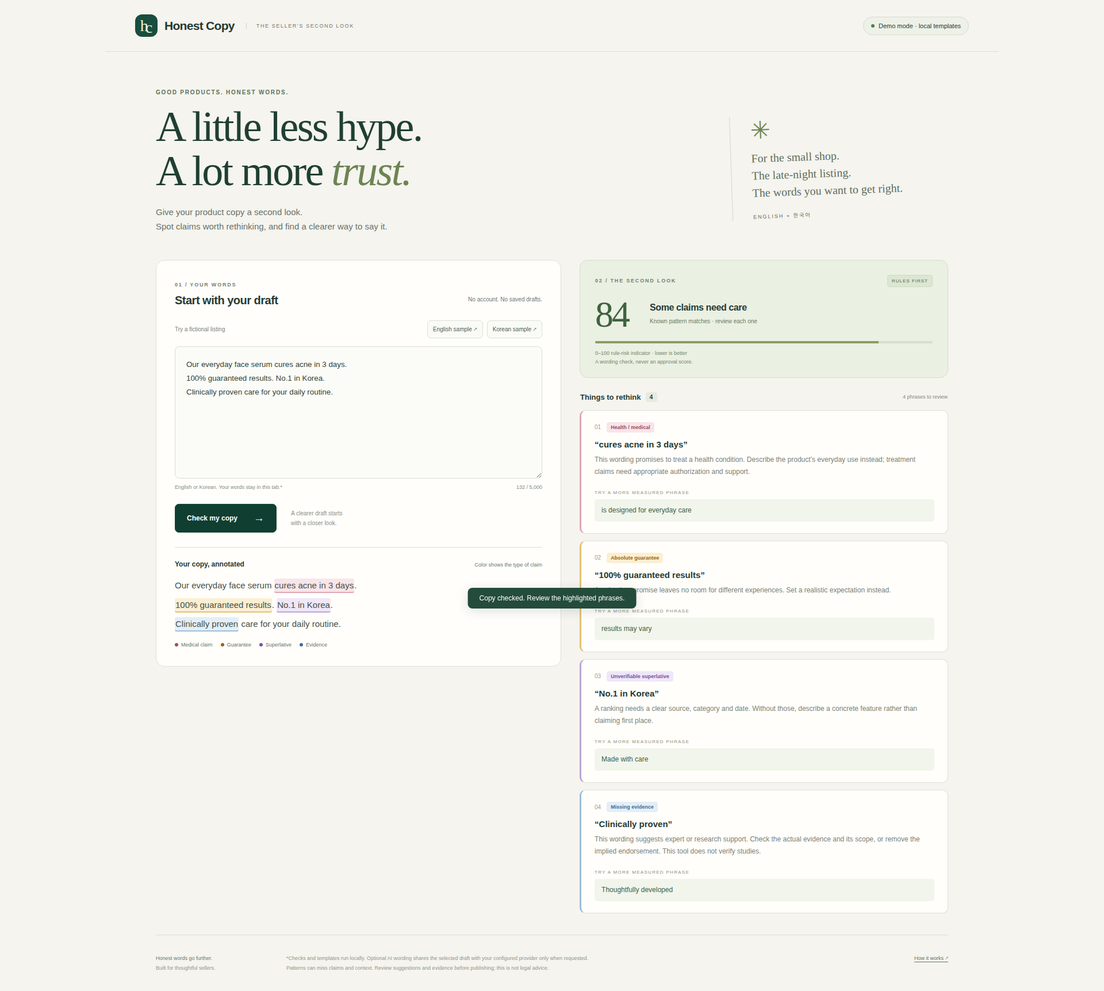
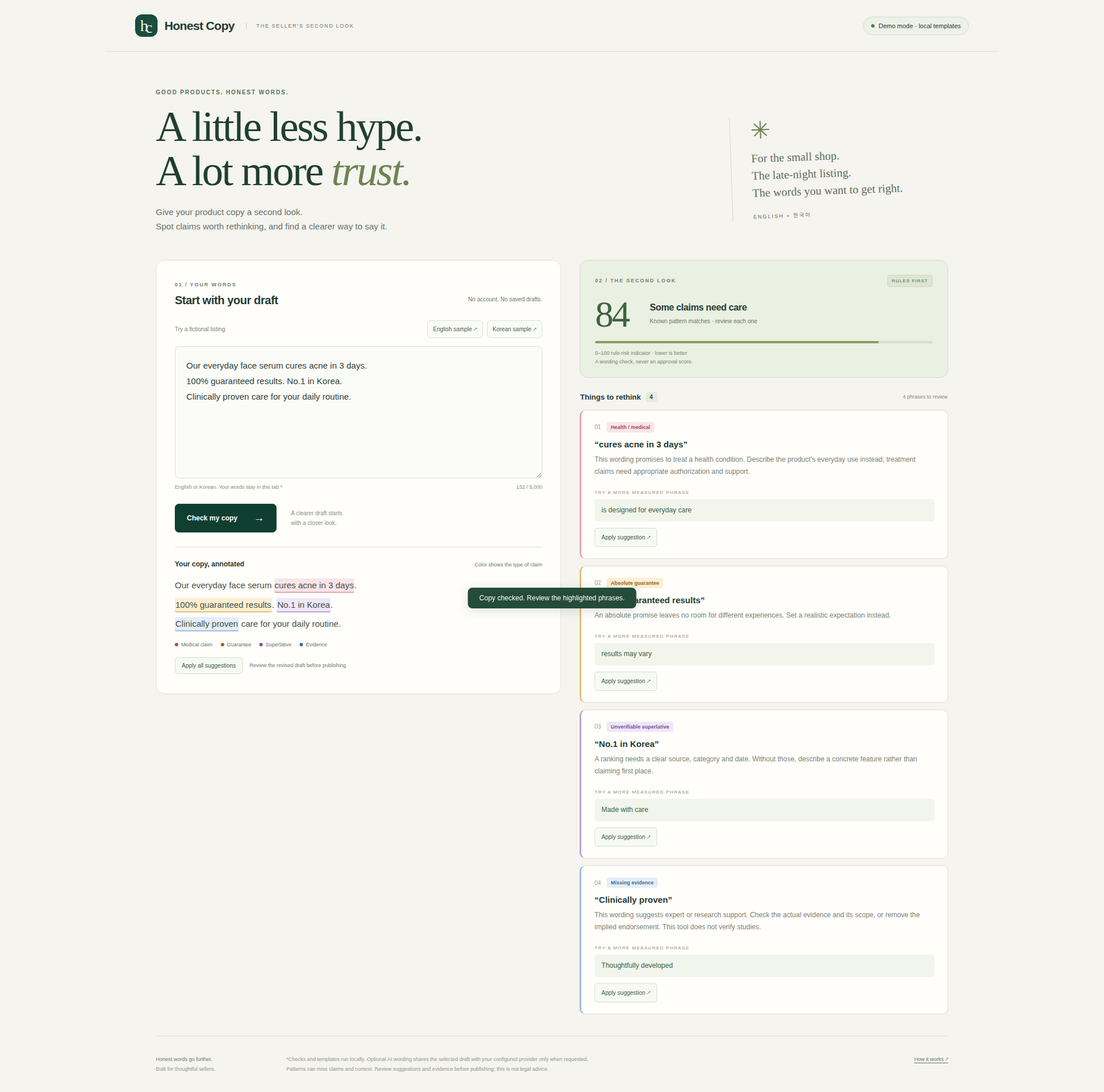
Add safer draft comparison undo and copy

diff --git a/src/style.css b/src/style.css
@@ -1,1 +1,1 @@
-:root{font-family:Inter,ui-sans-serif,-apple-system,BlinkMacSystemFont,"Segoe UI",sans-serif;color:#263a33;background:#f5f4ef;font-synthesis:none;font-size:14px;--green:#194d3e;--muted:#6c7770;--line:#dce0d7}*{box-sizing:border-box}body{margin:0}button,a,textarea{-webkit-tap-highlight-color:transparent}button{font:inherit;cursor:pointer}button:disabled{cursor:not-allowed;opacity:.42}button,a,textarea{outline-offset:4px}button:focus-visible,a:focus-visible,textarea:focus-visible{outline:3px solid #3d806b}a{color:inherit}.topbar{height:90px;border-bottom:1px solid var(--line);display:flex;align-items:center;justify-content:space-between;max-width:1440px;margin:auto;padding:0 52px}.brand{display:flex;align-items:center;gap:12px;text-decoration:none;font-size:21px;font-weight:700;letter-spacing:-.7px}.brand-mark{width:39px;height:39px;border-radius:12px;background:var(--green);color:#f3f5db;display:flex;align-items:center;justify-content:center;font-family:Georgia,serif;font-size:28px;font-weight:400;letter-spacing:-5px;padding-right:5px}.brand-mark span{margin-top:7px}.edition{font-size:9px;font-weight:500;letter-spacing:1.6px;border-left:1px solid #c9d0c7;padding-left:17px;margin-left:8px;color:var(--muted)}.mode{font-size:11px;border:1px solid #d6ddcf;background:#edf1e8;border-radius:99px;padding:9px 13px;display:flex;align-items:center;gap:7px}.mode i{height:6px;width:6px;border-radius:50%;background:#4c7f56}main{max-width:1336px;margin:auto;padding:0 36px}.intro{display:flex;justify-content:space-between;padding:57px 0 45px;align-items:center}.eyebrow,.step{font-size:10px;letter-spacing:1.8px;font-weight:600}.eyebrow{color:#59735b;margin:0 0 16px}h1{font-family:Georgia,"Times New Roman",serif;font-size:64px;font-weight:400;letter-spacing:-2.7px;line-height:1.04;margin:0;color:#203f32}h1 em{font-weight:400;color:#6d8453}.lead{font-size:15px;line-height:1.7;color:#68736b;margin:20px 0 0}.intro-note{padding:0 30px 0 35px;border-left:1px solid #d1d8ca;transform:rotate(-2deg);margin:15px 50px 0 30px;color:#5e6e5a}.note-star{font-size:42px;color:#70844f}.intro-note p{font-family:Georgia,serif;font-size:20px;line-height:1.5;margin:9px 0 17px}.intro-note>span:last-child{font-size:9px;letter-spacing:2px}.workspace{display:grid;grid-template-columns:1.13fr 1fr;gap:26px;align-items:start}.paper{background:#fffefb;border:1px solid var(--line);border-radius:15px}.input-panel{padding:28px;position:sticky;top:20px}.panel-top{display:flex;align-items:center;justify-content:space-between;gap:14px}.step{color:#737e71;font-size:9px}.panel-top h2{font-size:20px;font-weight:600;letter-spacing:-.5px;margin:10px 0 23px}.local-note{font-size:10px;color:var(--muted)}.sample-row{display:flex;gap:7px;align-items:center;margin-bottom:14px;flex-wrap:wrap}.sample-row>span{font-size:10px;color:#7c827b;margin-right:auto}.chip{border:1px solid #dce1d6;background:#fafbf6;padding:7px 9px;border-radius:6px;font-size:10px;color:#4e634f}.chip:hover{background:#ecf0e6}textarea{display:block;resize:vertical;min-height:202px;width:100%;border:1px solid #d9ded3;background:#fbfcf8;border-radius:8px;padding:19px;font:15px/1.8 inherit;font-family:inherit;line-height:1.8;color:#314238}textarea::placeholder{color:#8d948a}.editor-meta{display:flex;justify-content:space-between;color:#848c81;font-size:9px;gap:12px;margin-top:10px}.check-row{display:flex;gap:25px;align-items:center;margin-top:24px}.primary{background:var(--green);color:#fff;border:1px solid var(--green);padding:13px 20px;border-radius:7px;font-size:12px;font-weight:600;display:inline-flex;gap:28px;align-items:center;justify-content:center}.primary:hover{background:#103e31}.primary span{font-size:19px}.check-note{font-size:10px;line-height:1.7;color:#8a9084}.error{font-size:12px;color:#a83e49;margin:10px 0 0}.error:empty{display:none}.section-heading{display:flex;gap:12px;align-items:baseline;justify-content:space-between;margin:25px 0 13px;border-top:1px solid var(--line);padding-top:22px}h3{font-weight:600}.section-heading h3{font-size:12px;margin:0}.section-heading span{font-size:9px;color:var(--muted)}.annotated{font-size:14px;line-height:2.25;white-space:pre-wrap;overflow-wrap:anywhere;color:#465148}mark{border-radius:3px;padding:3px 1px;border-bottom:2px solid transparent;color:inherit}.medical{--cat:#a04c61;--tint:#f8e5e9;--edge:#e1a6b5}.guarantee{--cat:#97671b;--tint:#fbefd3;--edge:#e3c174}.superlative{--cat:#7654a0;--tint:#efe7f8;--edge:#bca5d6}.evidence{--cat:#416e97;--tint:#e4eef7;--edge:#9dbedb}mark{background:var(--tint);border-color:var(--edge)}.legend{display:flex;gap:14px;flex-wrap:wrap;margin:14px 0 0}.legend-item{font-size:9px;color:#687565;display:inline-flex;gap:5px;align-items:center}.legend-item:before{content:"";width:6px;height:6px;border-radius:50%;background:var(--cat)}.score-panel{border:1px solid #d5dec9;border-radius:14px;background:#eaf0e2;padding:25px 26px 19px}.score-top{display:flex;align-items:center;justify-content:space-between}.tiny-pill{font-size:8px;letter-spacing:1px;background:#dce6d2;border:1px solid #cfdbc2;border-radius:4px;padding:5px 7px;color:#526644}.score-display{display:flex;align-items:center;gap:20px;margin:16px 0 14px}.score-display>strong{font-family:Georgia,serif;font-size:64px;line-height:1;color:#3f6240;font-weight:400;letter-spacing:-3px;min-width:75px}.score-display h2{font-size:16px;font-weight:600;margin:0 0 7px;letter-spacing:-.4px}.score-display p{font-size:10px;margin:0;color:#6b7b5f;line-height:1.6}.score-track{height:4px;background:#d7e0cc;border-radius:10px;overflow:hidden}.score-track span{display:block;background:#8c9b64;height:100%;width:0}.score-caption{font-size:9px;line-height:1.65;color:#76846a;margin:10px 0 0}.findings-heading{display:flex;align-items:center;justify-content:space-between;padding:25px 1px 14px}.findings-heading h2{font-size:13px;font-weight:600;margin:0;display:flex;align-items:center;gap:8px}.findings-heading h2 span{font-size:10px;background:#e7eade;border-radius:4px;min-width:20px;padding:3px 5px;text-align:center}.findings-heading>span{font-size:9px;color:#838b7b}.empty-state{border:1px dashed #d2d9c9;border-radius:12px;min-height:264px;padding:28px 30px;text-align:center;color:#7e8876;background:#f9faf5}.empty-icon{font-family:Georgia,serif;display:block;font-size:44px;color:#8a9b75;line-height:1.2}.empty-state h3{font-size:16px;color:#53654b;margin:15px 0 10px}.empty-state p{font-size:12px;line-height:1.8;max-width:330px;margin:auto}.empty-tags{display:flex;justify-content:center;gap:12px;margin-top:22px;font-size:9px}.empty-tags span{border:1px solid #e0e4d8;border-radius:99px;padding:6px 10px}.finding{background:#fffefb;border:1px solid #dce0d7;border-left:3px solid var(--edge);border-radius:10px;padding:17px 20px;margin-bottom:12px}.finding-top{display:flex;align-items:center;gap:10px}.finding-number{font-size:10px;color:#9a9e95;font-variant-numeric:tabular-nums}.category-label{font-size:9px;font-weight:600;color:var(--cat);background:var(--tint);padding:4px 7px;border-radius:4px}.finding h3{font-size:15px;margin:12px 0 8px;overflow-wrap:anywhere}.finding>p{font-size:11px;line-height:1.75;color:#7a8176;margin:0 0 15px}.suggestion-label{font-size:8px;letter-spacing:1.3px;color:#89907f}.suggestion{font-size:12px;line-height:1.6;color:#426044;background:#f1f5eb;border-radius:5px;padding:10px 12px;margin-top:6px}.finding-actions{display:flex;gap:8px;margin-top:11px;align-items:center}.secondary{border:1px solid #d5dfcc;background:#f7faf2;border-radius:5px;color:#406144;padding:8px 11px;font-size:10px}.secondary:hover{background:#eaf1e1}.quiet{border:0;background:none;color:#6a7963;font-size:10px;padding:7px;text-decoration:underline;text-underline-offset:3px}.revised-box{white-space:pre-wrap;overflow-wrap:anywhere;font-size:13px;line-height:1.9;background:#eff5e8;border:1px solid #d7e3ca;border-radius:7px;padding:17px;color:#405c3b}.revision-actions{display:flex;align-items:center;gap:8px;margin-top:13px}.revision-actions .secondary{margin-left:auto}.compare{display:flex;gap:9px;align-items:center;margin-top:8px;font-size:10px;color:#6b7f5d}.compare b{font-weight:600}.all-actions{margin:15px 0 0;display:flex;align-items:center;gap:12px}.all-actions p{font-size:9px;color:var(--muted);line-height:1.6}.ai-note{font-size:9px;color:#7b8473;line-height:1.7;margin-top:8px}footer{display:flex;align-items:flex-start;gap:27px;padding:32px 0;margin-top:25px;border-top:1px solid var(--line);font-size:9px;color:#909687;line-height:1.8}footer>span{min-width:200px}footer b{display:block;color:#6b7b60;font-weight:500}footer p{margin:0;flex:1}footer a{white-space:nowrap;color:#64765b;text-underline-offset:3px}#toast{position:fixed;bottom:22px;left:50%;transform:translateX(-50%);background:#244c3b;color:#fff;padding:11px 20px;border-radius:8px;max-width:90vw;font-size:12px;box-shadow:0 4px 20px #1232;z-index:10}#toast:empty{display:none}.sr-only{position:absolute;width:1px;height:1px;overflow:hidden;clip:rect(0,0,0,0);white-space:nowrap}[hidden]{display:none!important}@media(min-width:1600px){main{max-width:1450px}.topbar{max-width:1554px}.intro{padding-top:65px}h1{font-size:74px}.workspace{grid-template-columns:1.1fr 1fr;gap:32px}.input-panel{padding:32px}textarea{min-height:230px}.finding{padding:20px 23px}.finding>p{font-size:12px}.annotated{font-size:15px}}@media(max-width:900px){.edition{display:none}.topbar{padding:0 25px;height:74px}main{padding:0 24px}.intro{padding:38px 0}.intro-note{margin-right:0;padding:0 20px}.workspace{gap:18px;grid-template-columns:1fr 1fr}.input-panel{padding:20px}.local-note{display:none}.sample-row>span{width:100%;margin-bottom:3px}.check-row{gap:12px}.check-note{font-size:9px}.score-panel{padding:20px}.score-display{gap:12px}.score-display>strong{font-size:53px;min-width:60px}.score-display h2{font-size:14px}footer{flex-wrap:wrap}footer>span{min-width:130px}}@media(max-width:650px){.topbar{padding:0 19px}.brand{font-size:18px;gap:8px}.brand-mark{width:32px;height:32px;font-size:24px;border-radius:9px}.mode{font-size:9px;padding:7px 9px}main{padding:0 17px}.intro{padding:31px 0}.intro-note{display:none}h1{font-size:49px;letter-spacing:-2px}.lead{font-size:13px;margin-top:15px}.eyebrow{font-size:9px}.workspace{grid-template-columns:1fr}.input-panel{position:static;padding:21px}.sample-row>span{width:auto}.sample-row .chip{font-size:9px;padding:6px}.editor-meta{font-size:8px}textarea{min-height:190px;font-size:16px}.panel-top h2{font-size:19px}.score-display h2{font-size:16px}.findings-heading{padding-top:21px}footer{gap:15px;margin-top:15px;padding-top:20px}footer p{flex-basis:100%;order:3}footer a{margin-left:auto}.section-heading span{font-size:8px}.legend{gap:10px}.finding>p{font-size:12px}}@media(prefers-reduced-motion:reduce){*{scroll-behavior:auto!important;transition:none!important;animation:none!important}}
+:root{font-family:Inter,ui-sans-serif,-apple-system,BlinkMacSystemFont,"Segoe UI",sans-serif;color:#263a33;background:#f5f4ef;font-synthesis:none;font-size:14px;--green:#194d3e;--muted:#6c7770;--line:#dce0d7}*{box-sizing:border-box}body{margin:0}button,a,textarea{-webkit-tap-highlight-color:transparent}button{font:inherit;cursor:pointer}button:disabled{cursor:not-allowed;opacity:.42}button,a,textarea{outline-offset:4px}button:focus-visible,a:focus-visible,textarea:focus-visible{outline:3px solid #3d806b}a{color:inherit}.topbar{height:90px;border-bottom:1px solid var(--line);display:flex;align-items:center;justify-content:space-between;max-width:1440px;margin:auto;padding:0 52px}.brand{display:flex;align-items:center;gap:12px;text-decoration:none;font-size:21px;font-weight:700;letter-spacing:-.7px}.brand-mark{width:39px;height:39px;border-radius:12px;background:var(--green);color:#f3f5db;display:flex;align-items:center;justify-content:center;font-family:Georgia,serif;font-size:28px;font-weight:400;letter-spacing:-5px;padding-right:5px}.brand-mark span{margin-top:7px}.edition{font-size:9px;font-weight:500;letter-spacing:1.6px;border-left:1px solid #c9d0c7;padding-left:17px;margin-left:8px;color:var(--muted)}.mode{font-size:11px;border:1px solid #d6ddcf;background:#edf1e8;border-radius:99px;padding:9px 13px;display:flex;align-items:center;gap:7px}.mode i{height:6px;width:6px;border-radius:50%;background:#4c7f56}main{max-width:1336px;margin:auto;padding:0 36px}.intro{display:flex;justify-content:space-between;padding:57px 0 45px;align-items:center}.eyebrow,.step{font-size:10px;letter-spacing:1.8px;font-weight:600}.eyebrow{color:#59735b;margin:0 0 16px}h1{font-family:Georgia,"Times New Roman",serif;font-size:64px;font-weight:400;letter-spacing:-2.7px;line-height:1.04;margin:0;color:#203f32}h1 em{font-weight:400;color:#6d8453}.lead{font-size:15px;line-height:1.7;color:#68736b;margin:20px 0 0}.intro-note{padding:0 30px 0 35px;border-left:1px solid #d1d8ca;transform:rotate(-2deg);margin:15px 50px 0 30px;color:#5e6e5a}.note-star{font-size:42px;color:#70844f}.intro-note p{font-family:Georgia,serif;font-size:20px;line-height:1.5;margin:9px 0 17px}.intro-note>span:last-child{font-size:9px;letter-spacing:2px}.workspace{display:grid;grid-template-columns:1.13fr 1fr;gap:26px;align-items:start}.paper{background:#fffefb;border:1px solid var(--line);border-radius:15px}.input-panel{padding:28px;position:sticky;top:20px}.panel-top{display:flex;align-items:center;justify-content:space-between;gap:14px}.step{color:#737e71;font-size:9px}.panel-top h2{font-size:20px;font-weight:600;letter-spacing:-.5px;margin:10px 0 23px}.local-note{font-size:10px;color:var(--muted)}.sample-row{display:flex;gap:7px;align-items:center;margin-bottom:14px;flex-wrap:wrap}.sample-row>span{font-size:10px;color:#7c827b;margin-right:auto}.chip{border:1px solid #dce1d6;background:#fafbf6;padding:7px 9px;border-radius:6px;font-size:10px;color:#4e634f}.chip:hover{background:#ecf0e6}textarea{display:block;resize:vertical;min-height:202px;width:100%;border:1px solid #d9ded3;background:#fbfcf8;border-radius:8px;padding:19px;font:inherit;font-size:15px;line-height:1.8;color:#314238}textarea::placeholder{color:#8d948a}.editor-meta{display:flex;justify-content:space-between;color:#848c81;font-size:9px;gap:12px;margin-top:10px}.check-row{display:flex;gap:25px;align-items:center;margin-top:24px}.primary{background:var(--green);color:#fff;border:1px solid var(--green);padding:13px 20px;border-radius:7px;font-size:12px;font-weight:600;display:inline-flex;gap:28px;align-items:center;justify-content:center}.primary:hover{background:#103e31}.primary span{font-size:19px}.check-note{font-size:10px;line-height:1.7;color:#8a9084}.error{font-size:12px;color:#a83e49;margin:10px 0 0}.error:empty{display:none}.section-heading{display:flex;gap:12px;align-items:baseline;justify-content:space-between;margin:25px 0 13px;border-top:1px solid var(--line);padding-top:22px}h3{font-weight:600}.section-heading h3{font-size:12px;margin:0}.section-heading span{font-size:9px;color:var(--muted)}.annotated{font-size:14px;line-height:2.25;white-space:pre-wrap;overflow-wrap:anywhere;color:#465148}mark{border-radius:3px;padding:3px 1px;border-bottom:2px solid transparent;color:inherit}.medical{--cat:#a04c61;--tint:#f8e5e9;--edge:#e1a6b5}.guarantee{--cat:#97671b;--tint:#fbefd3;--edge:#e3c174}.superlative{--cat:#7654a0;--tint:#efe7f8;--edge:#bca5d6}.evidence{--cat:#416e97;--tint:#e4eef7;--edge:#9dbedb}mark{background:var(--tint);border-color:var(--edge)}.legend{display:flex;gap:14px;flex-wrap:wrap;margin:14px 0 0}.legend-item{font-size:9px;color:#687565;display:inline-flex;gap:5px;align-items:center}.legend-item:before{content:"";width:6px;height:6px;border-radius:50%;background:var(--cat)}.score-panel{border:1px solid #d5dec9;border-radius:14px;background:#eaf0e2;padding:25px 26px 19px}.score-top{display:flex;align-items:center;justify-content:space-between}.tiny-pill{font-size:8px;letter-spacing:1px;background:#dce6d2;border:1px solid #cfdbc2;border-radius:4px;padding:5px 7px;color:#526644}.score-display{display:flex;align-items:center;gap:20px;margin:16px 0 14px}.score-display>strong{font-family:Georgia,serif;font-size:64px;line-height:1;color:#3f6240;font-weight:400;letter-spacing:-3px;min-width:75px}.score-display h2{font-size:16px;font-weight:600;margin:0 0 7px;letter-spacing:-.4px}.score-display p{font-size:10px;margin:0;color:#6b7b5f;line-height:1.6}.score-track{height:4px;background:#d7e0cc;border-radius:10px;overflow:hidden}.score-track span{display:block;background:#8c9b64;height:100%;width:0}.score-caption{font-size:9px;line-height:1.65;color:#76846a;margin:10px 0 0}.findings-heading{display:flex;align-items:center;justify-content:space-between;padding:25px 1px 14px}.findings-heading h2{font-size:13px;font-weight:600;margin:0;display:flex;align-items:center;gap:8px}.findings-heading h2 span{font-size:10px;background:#e7eade;border-radius:4px;min-width:20px;padding:3px 5px;text-align:center}.findings-heading>span{font-size:9px;color:#838b7b}.empty-state{border:1px dashed #d2d9c9;border-radius:12px;min-height:264px;padding:28px 30px;text-align:center;color:#7e8876;background:#f9faf5}.empty-icon{font-family:Georgia,serif;display:block;font-size:44px;color:#8a9b75;line-height:1.2}.empty-state h3{font-size:16px;color:#53654b;margin:15px 0 10px}.empty-state p{font-size:12px;line-height:1.8;max-width:330px;margin:auto}.empty-tags{display:flex;justify-content:center;gap:12px;margin-top:22px;font-size:9px}.empty-tags span{border:1px solid #e0e4d8;border-radius:99px;padding:6px 10px}.finding{background:#fffefb;border:1px solid #dce0d7;border-left:3px solid var(--edge);border-radius:10px;padding:17px 20px;margin-bottom:12px}.finding-top{display:flex;align-items:center;gap:10px}.finding-number{font-size:10px;color:#9a9e95;font-variant-numeric:tabular-nums}.category-label{font-size:9px;font-weight:600;color:var(--cat);background:var(--tint);padding:4px 7px;border-radius:4px}.finding h3{font-size:15px;margin:12px 0 8px;overflow-wrap:anywhere}.finding>p{font-size:11px;line-height:1.75;color:#7a8176;margin:0 0 15px}.suggestion-label{font-size:8px;letter-spacing:1.3px;color:#89907f}.suggestion{font-size:12px;line-height:1.6;color:#426044;background:#f1f5eb;border-radius:5px;padding:10px 12px;margin-top:6px}.finding-actions{display:flex;gap:8px;margin-top:11px;align-items:center}.secondary{border:1px solid #d5dfcc;background:#f7faf2;border-radius:5px;color:#406144;padding:8px 11px;font-size:10px}.secondary:hover{background:#eaf1e1}.quiet{border:0;background:none;color:#6a7963;font-size:10px;padding:7px;text-decoration:underline;text-underline-offset:3px}.revised-box{white-space:pre-wrap;overflow-wrap:anywhere;font-size:13px;line-height:1.9;background:#eff5e8;border:1px solid #d7e3ca;border-radius:7px;padding:17px;color:#405c3b}.revision-actions{display:flex;align-items:center;gap:8px;margin-top:13px}.revision-actions .secondary{margin-left:auto}.compare{display:flex;gap:9px;align-items:center;margin-top:8px;font-size:10px;color:#6b7f5d}.compare b{font-weight:600}.all-actions{margin:15px 0 0;display:flex;align-items:center;gap:12px}.all-actions p{font-size:9px;color:var(--muted);line-height:1.6}.ai-note{font-size:9px;color:#7b8473;line-height:1.7;margin-top:8px}footer{display:flex;align-items:flex-start;gap:27px;padding:32px 0;margin-top:25px;border-top:1px solid var(--line);font-size:9px;color:#909687;line-height:1.8}footer>span{min-width:200px}footer b{display:block;color:#6b7b60;font-weight:500}footer p{margin:0;flex:1}footer a{white-space:nowrap;color:#64765b;text-underline-offset:3px}#toast{position:fixed;bottom:22px;left:50%;transform:translateX(-50%);background:#244c3b;color:#fff;padding:11px 20px;border-radius:8px;max-width:90vw;font-size:12px;box-shadow:0 4px 20px #1232;z-index:10}#toast:empty{display:none}.sr-only{position:absolute;width:1px;height:1px;overflow:hidden;clip:rect(0,0,0,0);white-space:nowrap}[hidden]{display:none!important}@media(min-width:1600px){main{max-width:1450px}.topbar{max-width:1554px}.intro{padding-top:65px}h1{font-size:74px}.workspace{grid-template-columns:1.1fr 1fr;gap:32px}.input-panel{padding:32px}textarea{min-height:230px}.finding{padding:20px 23px}.finding>p{font-size:12px}.annotated{font-size:15px}}@media(max-width:900px){.edition{display:none}.topbar{padding:0 25px;height:74px}main{padding:0 24px}.intro{padding:38px 0}.intro-note{margin-right:0;padding:0 20px}.workspace{gap:18px;grid-template-columns:1fr 1fr}.input-panel{padding:20px}.local-note{display:none}.sample-row>span{width:100%;margin-bottom:3px}.check-row{gap:12px}.check-note{font-size:9px}.score-panel{padding:20px}.score-display{gap:12px}.score-display>strong{font-size:53px;min-width:60px}.score-display h2{font-size:14px}footer{flex-wrap:wrap}footer>span{min-width:130px}}@media(max-width:650px){.topbar{padding:0 19px}.brand{font-size:18px;gap:8px}.brand-mark{width:32px;height:32px;font-size:24px;border-radius:9px}.mode{font-size:9px;padding:7px 9px}main{padding:0 17px}.intro{padding:31px 0}.intro-note{display:none}h1{font-size:49px;letter-spacing:-2px}.lead{font-size:13px;margin-top:15px}.eyebrow{font-size:9px}.workspace{grid-template-columns:1fr}.input-panel{position:static;padding:21px}.sample-row>span{width:auto}.sample-row .chip{font-size:9px;padding:6px}.editor-meta{font-size:8px}textarea{min-height:190px;font-size:16px}.panel-top h2{font-size:19px}.score-display h2{font-size:16px}.findings-heading{padding-top:21px}footer{gap:15px;margin-top:15px;padding-top:20px}footer p{flex-basis:100%;order:3}footer a{margin-left:auto}.section-heading span{font-size:8px}.legend{gap:10px}.finding>p{font-size:12px}}@media(prefers-reduced-motion:reduce){*{scroll-behavior:auto!important;transition:none!important;animation:none!important}}

diff --git a/src/main.ts b/src/main.ts
@@ -1,5 +1,5 @@
 import './style.css';
-import { analyze, categories, samples } from './rules.mjs';
+import { analyze, applyFinding, applyAll, categories, samples } from './rules.mjs';
 type Finding = ReturnType<typeof analyze>['findings'][number];
 const app = document.querySelector<HTMLDivElement>('#app')!;
 app.innerHTML = `
@@ -26,21 +26,25 @@ app.innerHTML = `
 const el = <T extends HTMLElement = HTMLElement>(id: string) => document.getElementById(id) as T;
 const input = el<HTMLTextAreaElement>('copy-input');
 let baseline = '', current = '', checked = false;
+let history: string[] = [];
+const startState = el('findings').firstElementChild!.cloneNode(true);
+let toastTimer: ReturnType<typeof setTimeout>;
+
 function text(tag: string, value: string, className = '') {
   const node = document.createElement(tag); node.textContent = value; node.className = className; return node;
 }
-function notify(message: string) { el('toast').textContent = message; }
+function notify(message: string) { el('toast').textContent = message; clearTimeout(toastTimer); toastTimer = setTimeout(() => {el('toast').textContent='';}, 4500); }
 function inputChanged() {
   el('char-count').textContent = `${input.value.length.toLocaleString()} / 5,000`;
   el<HTMLButtonElement>('check').disabled = !input.value.trim() || input.value.length > 5000;
   el('input-error').textContent = input.value.length > 5000 ? 'Keep your draft under 5,000 characters.' : '';
-  if (checked) {checked = false; baseline = ''; current = ''; render();}
+  if (checked) {checked = false; baseline = ''; current = ''; history = []; render();}
 }
 input.addEventListener('input', inputChanged);
 for (const lang of ['en','ko'] as const) el(`sample-${lang}`).addEventListener('click', () => {input.value = samples[lang]; inputChanged(); input.focus();});
 el('check').addEventListener('click', () => {
   if (!input.value.trim() || input.value.length > 5000) return;
-  baseline = input.value; current = baseline; checked = true; render(); notify('Copy checked. Review the highlighted phrases.');
+  baseline = input.value; current = baseline; history = []; checked = true; render(); notify('Copy checked. Review the highlighted phrases.');
 });
 function renderHighlights(findings: Finding[]) {
   const box = el('annotated'); box.replaceChildren(); let offset = 0;
@@ -61,9 +65,19 @@ function render() {
   scoreInfo.append(text('h2',!checked?'Room for clearer words':score===0?'A more measured draft':score>=60?'Some claims need care':'A few words to revisit'),text('p',checked?'Known pattern matches · review each one':'Your rule-risk score appears here.'));
   el('score-display').append(text('strong',checked?String(score):'—'),scoreInfo);
   el('score-fill').style.width = `${checked?score:0}%`;
-  if (!checked) return;
+  el('revised-section').hidden = !checked || current === baseline;
+  if (!checked) {el('findings').replaceChildren(startState.cloneNode(true)); return;}
+  renderRevised();
   renderHighlights(findings);
   el('legend').replaceChildren(...Object.entries(categories).map(([key,cat]) => text('span',cat.short,`legend-item ${key}`)));
+  let allActions = document.getElementById('all-actions');
+  allActions?.remove();
+  if (findings.length) {
+    allActions = text('div','','all-actions'); allActions.id='all-actions';
+    const applyAllButton = text('button','Apply all suggestions','secondary') as HTMLButtonElement;
+    applyAllButton.addEventListener('click',()=>changeDraft(applyAll(current)));
+    allActions.append(applyAllButton,text('p','Review the revised draft before publishing.')); el('review-section').append(allActions);
+  }
   const list = el('findings'); list.replaceChildren();
   if (!findings.length) {
     const empty = text('div','','empty-state success'); empty.append(text('span','✓','empty-icon'),text('h3','No listed patterns found.'),text('p','That’s a more measured draft by these rules. Unflagged claims may still need evidence or review.'));list.append(empty);
@@ -72,6 +86,34 @@ function render() {
     const card = text('article','',`finding ${f.category}`);
     const head = text('div','','finding-top');head.append(text('span',String(i+1).padStart(2,'0'),'finding-number'),text('span',f.label,'category-label'));
     card.append(head,text('h3',`“${f.phrase}”`),text('p',f.explanation),text('span','TRY A MORE MEASURED PHRASE','suggestion-label'),text('div',f.replacement,'suggestion'));
+    const actions = text('div','','finding-actions');
+    const apply = text('button','Apply suggestion ↗','secondary') as HTMLButtonElement;
+    apply.setAttribute('aria-label',`Apply suggestion ${i+1}: ${f.phrase}`);
+    apply.addEventListener('click',()=>changeDraft(applyFinding(current,f)));
+    actions.append(apply); card.append(actions);
     list.append(card);
   }
+}
+
+function changeDraft(next: string) {
+  if (next === current) return;
+  history.push(current); current = next; render();
+  notify('Suggestion applied. Review your revised draft.');
+}
+function renderRevised() {
+  const section = el('revised-section'); section.replaceChildren();
+  if (current === baseline) return;
+  const heading = text('div','','section-heading'); heading.append(text('h3','Your revised draft'),text('span','03 / CLEARER WORDS'));
+  const compare = text('div','','compare');
+  compare.append(text('span','Rule-risk score:'),text('span',`${analyze(baseline).score} before →`),text('b',`${analyze(current).score} after`));
+  const revised = text('div',current,'revised-box'); revised.id='revised-copy';
+  const actions = text('div','','revision-actions');
+  const copy = text('button','Copy revised text','primary') as HTMLButtonElement;
+  copy.addEventListener('click',async()=>{
+    try {await navigator.clipboard.writeText(current);notify('Revised text copied. Give it one final read before publishing.');}
+    catch {notify('Clipboard unavailable. Select and copy the revised draft above.');}
+  });
+  const undo = text('button','Undo last change','secondary') as HTMLButtonElement;
+  undo.disabled=!history.length; undo.addEventListener('click',()=>{current=history.pop()!;render();notify('Last change undone.');});
+  actions.append(copy,undo); section.append(heading,revised,compare,actions);
 }

diff --git a/devpost/checklist.md b/devpost/checklist.md
@@ -7,7 +7,7 @@ Build mode: fast, per explicit autonomous-task instruction. Approval delegated b
 
 ## Slices
 
-- [ ] **1. Paste copy and understand exact risky phrases**
+- [x] **1. Paste copy and understand exact risky phrases**
   Becomes usable: Running English/Korean checker with inline highlights, explanations and initial score.
   Why now: Delivers the unique kernel first, including scaffold and tests.
   PRD ref: `prd.md > Paste and Check`, `prd.md > Phrase Review`
@@ -56,3 +56,5 @@ Reflection: Not collected.
 Activity mode: Evidence-based recap and offline reference map.
 
 ## Revisions
+
+- Slice 1: nine Node tests, pilot TypeScript/production build and English/Korean Chromium checks pass. Playwright version expected a newer browser; reused the installed Chromium via explicit executable path.
